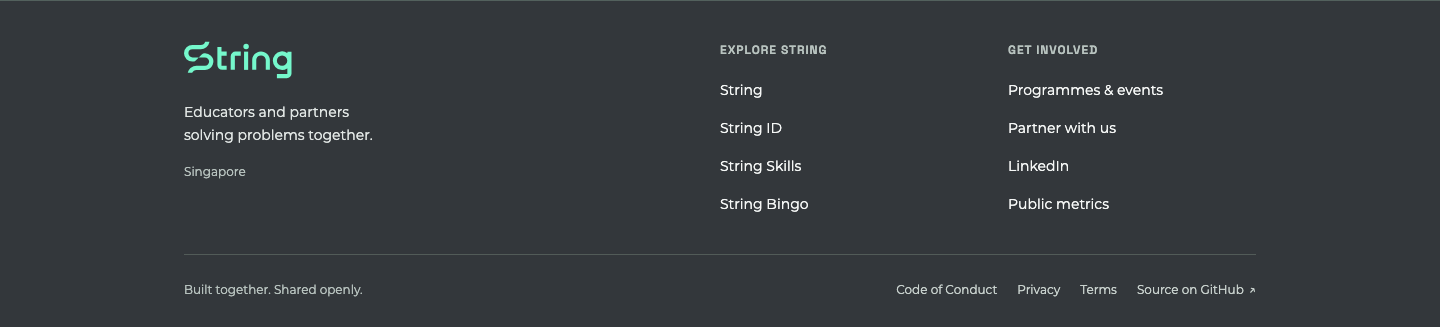
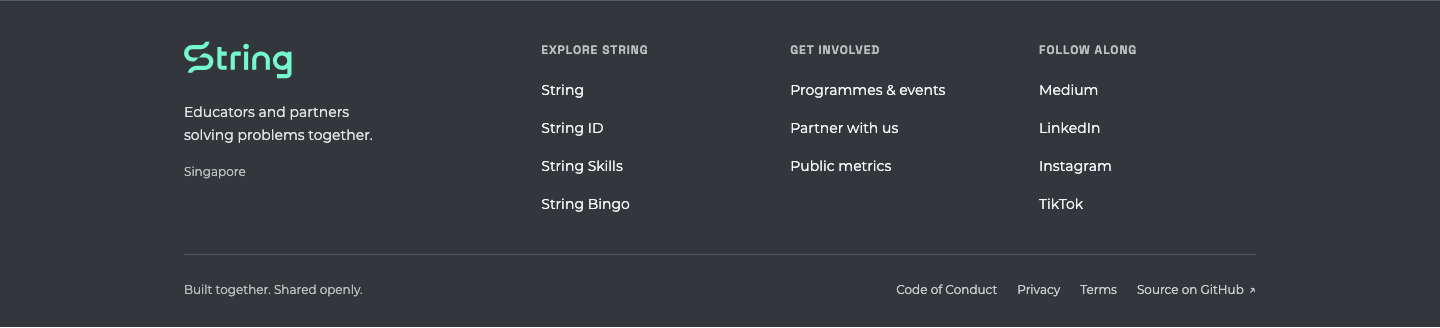
Scope conduct to String ID and add social links

diff --git a/components/string-footer/footer.css b/components/string-footer/footer.css
@@ -7,7 +7,7 @@
   font-size: 14px; line-height: 1.6; text-align: left;
 }
 .str-footer .str-footer__inner { width: min(1120px, 100%); margin: 0 auto; padding: 40px 24px 20px; }
-.str-footer .str-footer__main { display: grid; grid-template-columns: 2fr 1fr 1fr; gap: 40px; }
+.str-footer .str-footer__main { display: grid; grid-template-columns: 1.5fr 1fr 1fr 1fr; gap: 32px; }
 .str-footer .str-footer__brand { display: inline-flex; padding: 0; }
 .str-footer .str-footer__brand img { display: block; width: 108px; height: 38px; max-width: 100%; }
 .str-footer .str-footer__identity p { margin: 16px 0 12px; color: #e1e6e4; font-size: 14px; line-height: 1.65; }
@@ -32,6 +32,8 @@
   .str-footer .str-footer__inner { padding: 32px 20px 20px; }
   .str-footer .str-footer__main { grid-template-columns: 1fr 1fr; gap: 28px 20px; }
   .str-footer .str-footer__identity { grid-column: 1 / -1; }
+  .str-footer .str-footer__social { grid-column: 1 / -1; flex-direction: row; flex-wrap: wrap; gap: 2px 20px; }
+  .str-footer .str-footer__social h2 { flex-basis: 100%; }
   .str-footer .str-footer__bottom { margin-top: 24px; align-items: flex-start; flex-direction: column; gap: 8px; }
 }
 @media (forced-colors: active) { .str-footer a:focus-visible { outline-color: LinkText; } }

diff --git a/components/string-footer/footer.html b/components/string-footer/footer.html
@@ -19,14 +19,20 @@
         <h2>Get involved</h2>
         <a href="https://luma.com/string">Programmes &amp; events</a>
         <a href="https://string.sg/partner/">Partner with us</a>
-        <a href="https://www.linkedin.com/company/77759625/">LinkedIn</a>
         <a href="https://reports.string.sg/">Public metrics</a>
+      </nav>
+      <nav class="str-footer__nav str-footer__social" aria-label="String social channels">
+        <h2>Follow along</h2>
+        <a href="https://medium.com/string">Medium</a>
+        <a href="https://www.linkedin.com/company/77759625/">LinkedIn</a>
+        <a href="https://www.instagram.com/stringedu/">Instagram</a>
+        <a href="https://www.tiktok.com/@string.sg">TikTok</a>
       </nav>
     </div>
     <div class="str-footer__bottom">
       <span>Built together. Shared openly.</span>
       <nav class="str-footer__legal" aria-label="String policies and source">
-        <a href="https://id.string.sg/conduct">Code of Conduct</a>
+{{conduct}}
         <a href="https://string.sg/privacy/">Privacy</a>
         <a href="https://string.sg/terms/">Terms</a>
         <a href="{{source}}">Source on GitHub <span aria-hidden="true">↗</span></a>

diff --git a/components/string-footer/README.md b/components/string-footer/README.md
@@ -17,7 +17,7 @@ Requires Node.js 20+. Add `--check` to detect drift without writing. The script 
 
 Make shared changes here first, regenerate consumers, run each app's checks and review the diffs in separate PRs. Increment the version in the script and CSS comment for the next release. Pin this branding checkout to the reviewed commit when reproducing a release; no product build fetches mutable upstream code. The branding PR must merge before the documentation links to `main` resolve.
 
-The footer includes product navigation, community links, the public [Code of Conduct](https://id.string.sg/conduct), Privacy, Terms, and each product's GitHub source. Links use the current tab; the source arrow is decorative. Fonts use the app's existing font setup and system fallbacks. Keyboard focus, forced-colour focus, wrapping and a two-column mobile layout are included. Application actions, signing gates, integration endpoints and creator credits remain product-owned.
+The footer includes product navigation, community links, Medium, LinkedIn, Instagram, TikTok, Privacy, Terms, and each product's GitHub source. Only String ID includes Code of Conduct, pointing to its local `/conduct` route. TikTok uses the owner-confirmed `https://www.tiktok.com/@string.sg` profile. Links use the current tab; the source arrow is decorative. Fonts use the app's existing font setup and system fallbacks. Keyboard focus, forced-colour focus, wrapping and a two-column mobile layout are included. Application actions, signing gates, integration endpoints and creator credits remain product-owned.
 
 Reusable agent guidance: [string-footer skill](../../.claude/skills/string-footer/SKILL.md). To install it locally, copy that folder into your agent's skills directory.
 

diff --git a/.claude/skills/string-footer/SKILL.md b/.claude/skills/string-footer/SKILL.md
@@ -7,7 +7,7 @@ description: Adopt or update the shared String product footer across String webs
 
 The source of truth is [String-sg/string-brand-guide/components/string-footer](https://github.com/String-sg/string-brand-guide/tree/main/components/string-footer). Read its README and inspect the target repository's instructions before editing.
 
-The component uses String's mint logo, charcoal background, Montserrat body and Space Grotesk labels. Keep shared product, community, Code of Conduct, privacy, terms and repository source links consistent. Code of Conduct points to the public `https://id.string.sg/conduct` page; signing and access controls belong to String ID.
+The component uses String's mint logo, charcoal background, Montserrat body and Space Grotesk labels. Keep shared product, community, social, privacy, terms and repository source links consistent. Social destinations are Medium (`https://medium.com/string`), LinkedIn (`https://www.linkedin.com/company/77759625/`), Instagram (`https://www.instagram.com/stringedu/`) and TikTok (`https://www.tiktok.com/@string.sg`). Only String ID shows Code of Conduct, using the local `/conduct` route. Do not add that policy link to the other products. Signing and access controls remain owned by String ID.
 
 For the four supported products, run the reviewed branding checkout's script:
 
